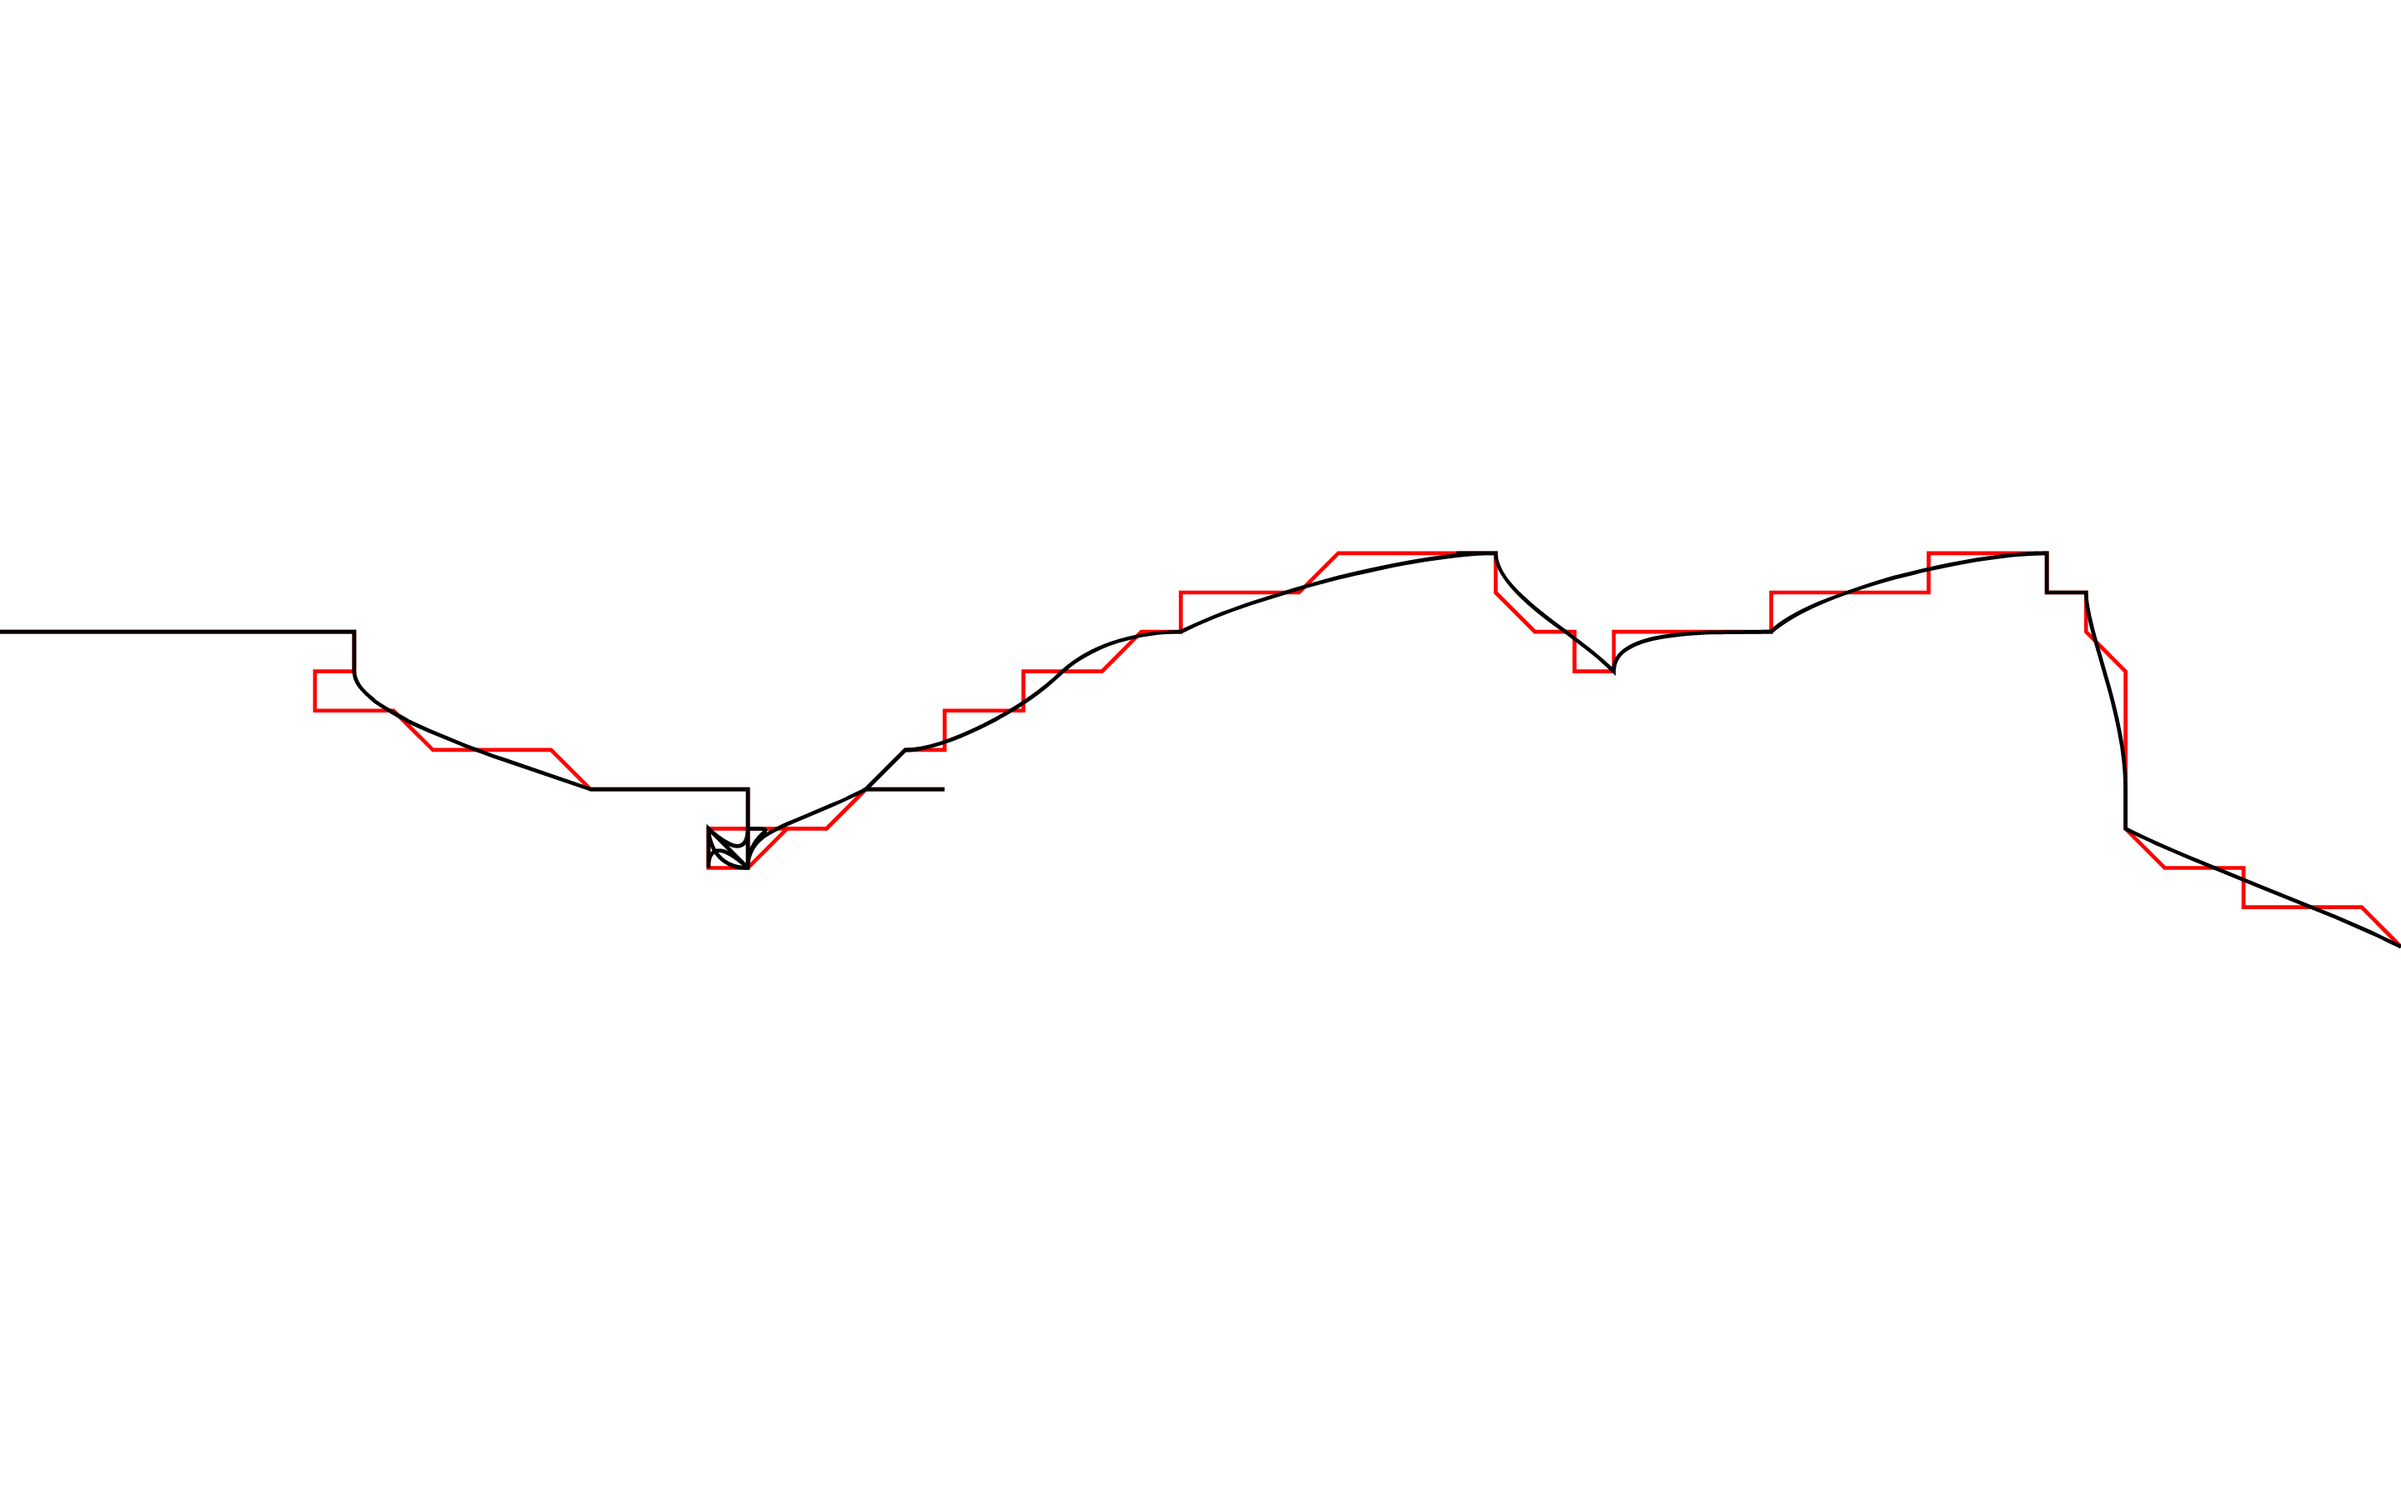
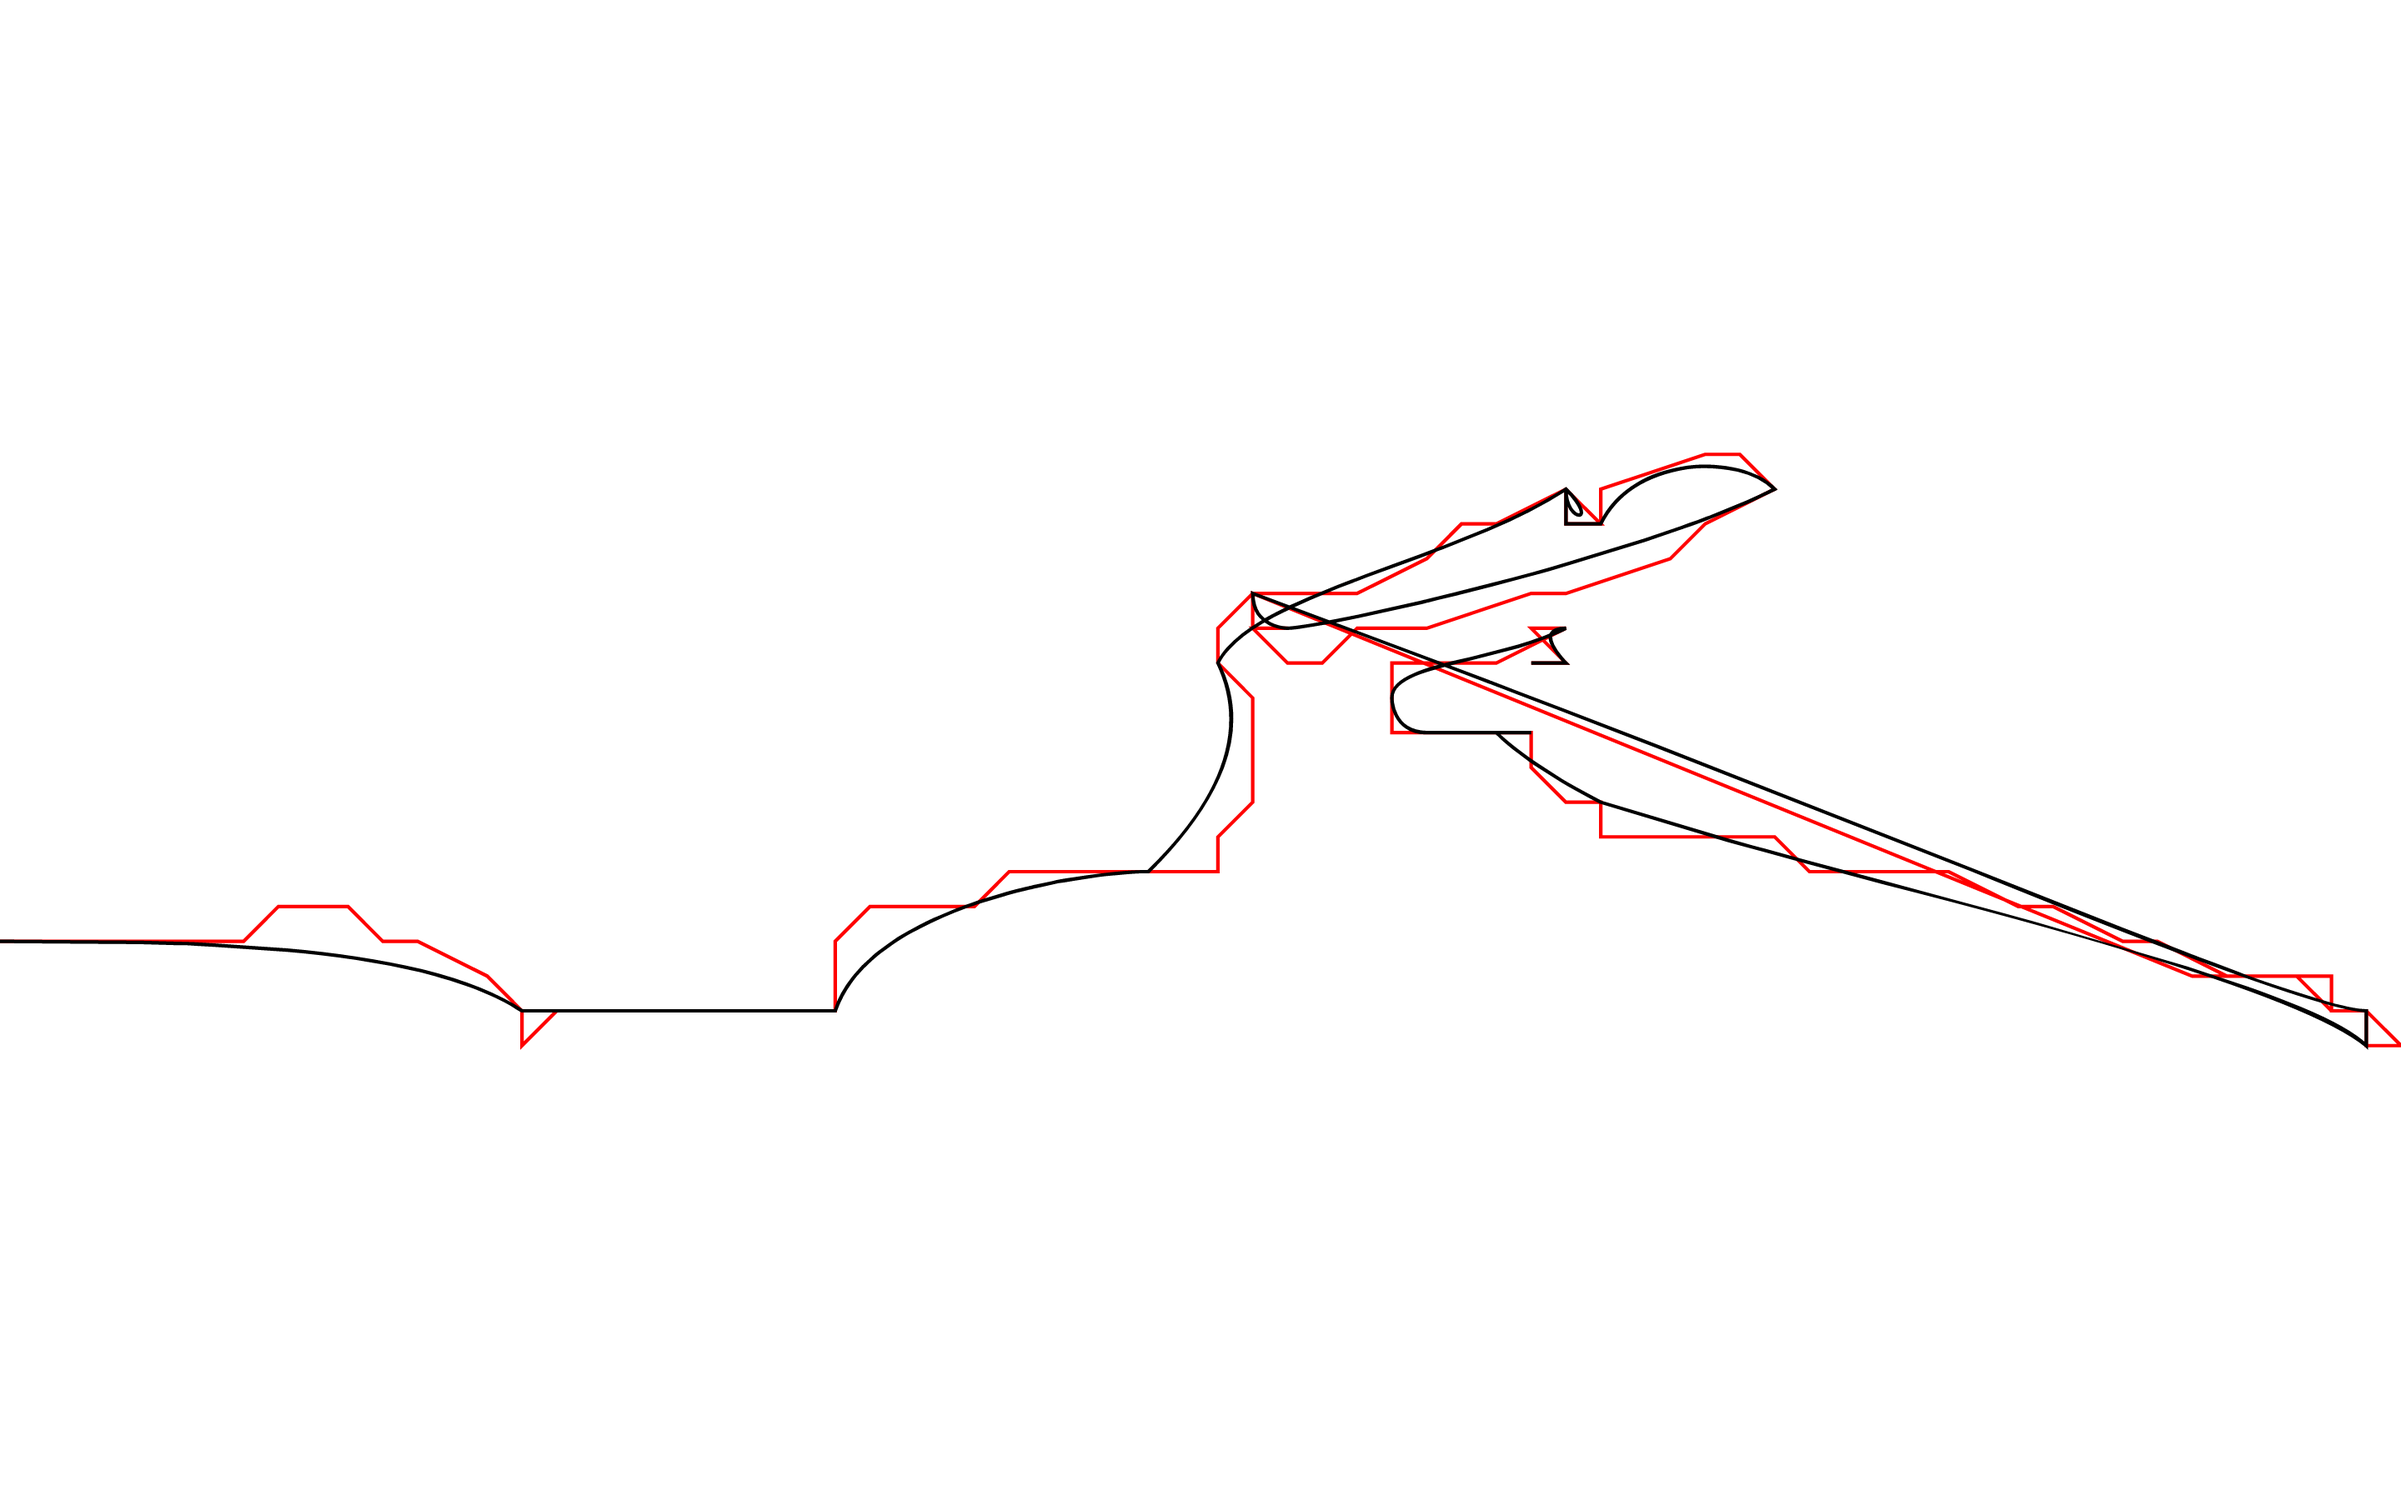
increase cumulativeRadThreshold

diff --git a/src/location.js b/src/location.js
@@ -433,7 +433,7 @@ function locationsToVectorPosition() {
 
 var minSegmentDegrees = 0.0001 // ~11.06 meters
 var radThreshold = 40 / 180 * Math.PI;
-var cumulativeRadThreshold = radThreshold * 3;
+var cumulativeRadThreshold = radThreshold * 6;
 var drawOriginalPath = true;
 function locationStreamToBezier(points) {
     var i, point = null, skippedPoints = null;
